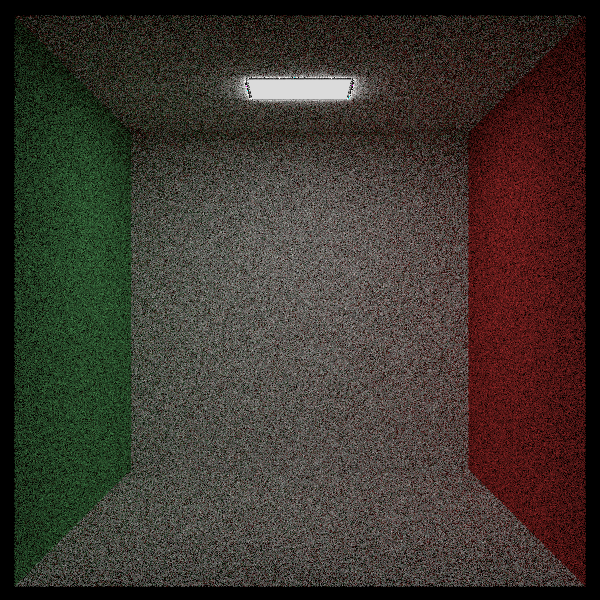
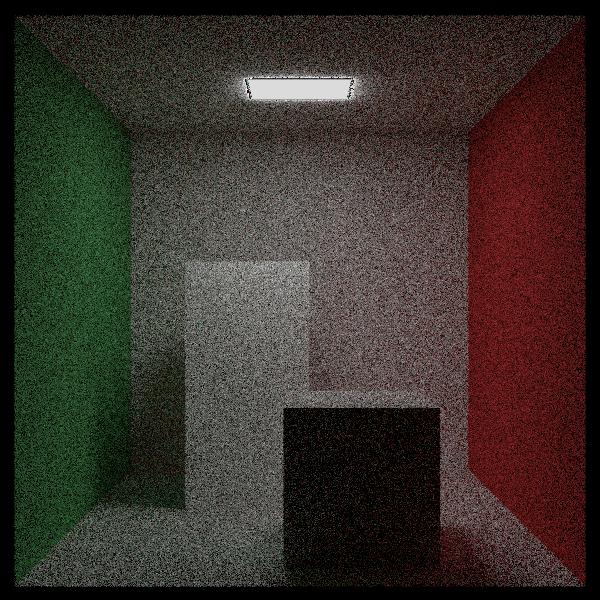
finish next week

diff --git a/RayTracingNextWeek/hittable.h b/RayTracingNextWeek/hittable.h
@@ -26,3 +26,123 @@ public:
     virtual bool hit(const ray& r, double t_min, double t_max, hit_record& rec) const = 0;
     virtual bool bounding_box(double time0, double time1, aabb& output_box) const = 0;
 };
+
+class translate : public hittable {
+public:
+    translate(shared_ptr<hittable> p, const vec3& displacement)
+        : ptr(p), offset(displacement) {}
+
+    virtual bool hit(
+        const ray& r, double t_min, double t_max, hit_record& rec) const override;
+
+    virtual bool bounding_box(double time0, double time1, aabb& output_box) const override;
+
+public:
+    shared_ptr<hittable> ptr;
+    vec3 offset;
+};
+
+bool translate::hit(const ray& r, double t_min, double t_max, hit_record& rec) const {
+    ray moved_r(r.origin() - offset, r.direction(), r.time());
+    if (!ptr->hit(moved_r, t_min, t_max, rec))
+        return false;
+
+    rec.p += offset;
+    rec.set_face_normal(moved_r, rec.normal);
+
+    return true;
+}
+
+bool translate::bounding_box(double time0, double time1, aabb& output_box) const {
+    if (!ptr->bounding_box(time0, time1, output_box))
+        return false;
+
+    output_box = aabb(
+        output_box.min() + offset,
+        output_box.max() + offset);
+
+    return true;
+}
+
+class rotate_y : public hittable {
+public:
+    rotate_y(shared_ptr<hittable> p, double angle);
+
+    virtual bool hit(
+        const ray& r, double t_min, double t_max, hit_record& rec) const override;
+
+    virtual bool bounding_box(double time0, double time1, aabb& output_box) const override {
+        output_box = bbox;
+        return hasbox;
+    }
+
+public:
+    shared_ptr<hittable> ptr;
+    double sin_theta;
+    double cos_theta;
+    bool hasbox;
+    aabb bbox;
+};
+
+rotate_y::rotate_y(shared_ptr<hittable> p, double angle) : ptr(p) {
+    auto radians = degrees_to_radians(angle);
+    sin_theta = sin(radians);
+    cos_theta = cos(radians);
+    hasbox = ptr->bounding_box(0, 1, bbox);
+
+    point3 min(infinity, infinity, infinity);
+    point3 max(-infinity, -infinity, -infinity);
+
+    for (int i = 0; i < 2; i++) {
+        for (int j = 0; j < 2; j++) {
+            for (int k = 0; k < 2; k++) {
+                auto x = i * bbox.max().x() + (1 - i) * bbox.min().x();
+                auto y = j * bbox.max().y() + (1 - j) * bbox.min().y();
+                auto z = k * bbox.max().z() + (1 - k) * bbox.min().z();
+
+                auto newx = cos_theta * x + sin_theta * z;
+                auto newz = -sin_theta * x + cos_theta * z;
+
+                vec3 tester(newx, y, newz);
+
+                for (int c = 0; c < 3; c++) {
+                    min[c] = fmin(min[c], tester[c]);
+                    max[c] = fmax(max[c], tester[c]);
+                }
+            }
+        }
+    }
+
+    bbox = aabb(min, max);
+}
+
+bool rotate_y::hit(const ray& r, double t_min, double t_max, hit_record& rec) const {
+    auto origin = r.origin();
+    auto direction = r.direction();
+
+    origin[0] = cos_theta * r.origin()[0] - sin_theta * r.origin()[2];
+    origin[2] = sin_theta * r.origin()[0] + cos_theta * r.origin()[2];
+
+    direction[0] = cos_theta * r.direction()[0] - sin_theta * r.direction()[2];
+    direction[2] = sin_theta * r.direction()[0] + cos_theta * r.direction()[2];
+
+    ray rotated_r(origin, direction, r.time());
+
+    if (!ptr->hit(rotated_r, t_min, t_max, rec))
+        return false;
+
+    auto p = rec.p;
+    auto normal = rec.normal;
+
+    p[0] = cos_theta * rec.p[0] + sin_theta * rec.p[2];
+    p[2] = -sin_theta * rec.p[0] + cos_theta * rec.p[2];
+
+    normal[0] = cos_theta * rec.normal[0] + sin_theta * rec.normal[2];
+    normal[2] = -sin_theta * rec.normal[0] + cos_theta * rec.normal[2];
+
+    rec.p = p;
+    rec.set_face_normal(rotated_r, normal);
+
+    return true;
+}
+

diff --git a/RayTracingNextWeek/constant_medium.h b/RayTracingNextWeek/constant_medium.h
@@ -1,0 +1,81 @@
+#pragma once
+
+#include "rtweekend.h"
+
+#include "hittable.h"
+#include "material.h"
+#include "texture.h"
+
+class constant_medium : public hittable {
+public:
+    constant_medium(shared_ptr<hittable> b, double d, shared_ptr<texture> a)
+        : boundary(b),
+        neg_inv_density(-1 / d),
+        phase_function(make_shared<isotropic>(a))
+    {}
+
+    constant_medium(shared_ptr<hittable> b, double d, color c)
+        : boundary(b),
+        neg_inv_density(-1 / d),
+        phase_function(make_shared<isotropic>(c))
+    {}
+
+    virtual bool hit(
+        const ray& r, double t_min, double t_max, hit_record& rec) const override;
+
+    virtual bool bounding_box(double time0, double time1, aabb& output_box) const override {
+        return boundary->bounding_box(time0, time1, output_box);
+    }
+
+public:
+    shared_ptr<hittable> boundary;
+    shared_ptr<material> phase_function;
+    double neg_inv_density;
+};
+
+bool constant_medium::hit(const ray& r, double t_min, double t_max, hit_record& rec) const {
+    // Print occasional samples when debugging. To enable, set enableDebug true.
+    const bool enableDebug = false;
+    const bool debugging = enableDebug && random_double() < 0.00001;
+
+    hit_record rec1, rec2;
+
+    if (!boundary->hit(r, -infinity, infinity, rec1))
+        return false;
+
+    if (!boundary->hit(r, rec1.t + 0.0001, infinity, rec2))
+        return false;
+
+    if (debugging) std::cerr << "\nt_min=" << rec1.t << ", t_max=" << rec2.t << '\n';
+
+    if (rec1.t < t_min) rec1.t = t_min;
+    if (rec2.t > t_max) rec2.t = t_max;
+
+    if (rec1.t >= rec2.t)
+        return false;
+
+    if (rec1.t < 0)
+        rec1.t = 0;
+
+    const auto ray_length = r.direction().length();
+    const auto distance_inside_boundary = (rec2.t - rec1.t) * ray_length;
+    const auto hit_distance = neg_inv_density * log(random_double());
+
+    if (hit_distance > distance_inside_boundary)
+        return false;
+
+    rec.t = rec1.t + hit_distance / ray_length;
+    rec.p = r.at(rec.t);
+
+    if (debugging) {
+        std::cerr << "hit_distance = " << hit_distance << '\n'
+            << "rec.t = " << rec.t << '\n'
+            << "rec.p = " << rec.p << '\n';
+    }
+
+    rec.normal = vec3(1, 0, 0);  // arbitrary
+    rec.front_face = true;     // also arbitrary
+    rec.mat_ptr = phase_function;
+
+    return true;
+}

diff --git a/RayTracingNextWeek/mainTest5.cpp b/RayTracingNextWeek/mainTest5.cpp
@@ -13,6 +13,8 @@
 #include "moving_sphere.h"
 #include "bvh.h"
 #include "aarect.h"
+#include "box.h"
+#include "constant_medium.h"
 
 #include <iostream>
 
@@ -145,6 +147,19 @@ hittable_list cornell_box() {
     objects.add(make_shared<xz_rect>(0, 555, 0, 555, 555, white));
     objects.add(make_shared<xy_rect>(0, 555, 0, 555, 555, white));
 
+    shared_ptr<hittable> box1 = make_shared<box>(point3(0, 0, 0), point3(165, 330, 165), white);
+    box1 = make_shared<rotate_y>(box1, 15);
+    box1 = make_shared<translate>(box1, vec3(265, 0, 295));
+    //objects.add(box1);
+
+    shared_ptr<hittable> box2 = make_shared<box>(point3(0, 0, 0), point3(165, 165, 165), white);
+    box2 = make_shared<rotate_y>(box2, -18);
+    box2 = make_shared<translate>(box2, vec3(130, 0, 65));
+    //objects.add(box2);
+
+    objects.add(make_shared<constant_medium>(box1, 0.01, color(0, 0, 0)));
+    objects.add(make_shared<constant_medium>(box2, 0.01, color(1, 1, 1)));
+
     return objects;
 }
 
@@ -153,7 +168,7 @@ int main() {
     auto aspect_ratio = 16.0 / 9.0;
     int image_width = 400;
     int image_height = static_cast<int>(image_width / aspect_ratio);
-    std::string outputPath = "./temp/mainTest4_box.png";
+    std::string outputPath = "./temp/mainTest5_box_fog.png";
     int samples_per_pixel = 400;
     int max_depth = 50;
     // World

diff --git a/RayTracingNextWeek/box.h b/RayTracingNextWeek/box.h
@@ -1,0 +1,42 @@
+#pragma once
+
+#include "rtweekend.h"
+
+#include "aarect.h"
+#include "hittable_list.h"
+
+class box : public hittable {
+public:
+    box() {}
+    box(const point3& p0, const point3& p1, shared_ptr<material> ptr);
+
+    virtual bool hit(const ray& r, double t_min, double t_max, hit_record& rec) const override;
+
+    virtual bool bounding_box(double time0, double time1, aabb& output_box) const override {
+        output_box = aabb(box_min, box_max);
+        return true;
+    }
+
+public:
+    point3 box_min;
+    point3 box_max;
+    hittable_list sides;
+};
+
+box::box(const point3& p0, const point3& p1, shared_ptr<material> ptr) {
+    box_min = p0;
+    box_max = p1;
+
+    sides.add(make_shared<xy_rect>(p0.x(), p1.x(), p0.y(), p1.y(), p1.z(), ptr));
+    sides.add(make_shared<xy_rect>(p0.x(), p1.x(), p0.y(), p1.y(), p0.z(), ptr));
+
+    sides.add(make_shared<xz_rect>(p0.x(), p1.x(), p0.z(), p1.z(), p1.y(), ptr));
+    sides.add(make_shared<xz_rect>(p0.x(), p1.x(), p0.z(), p1.z(), p0.y(), ptr));
+
+    sides.add(make_shared<yz_rect>(p0.y(), p1.y(), p0.z(), p1.z(), p1.x(), ptr));
+    sides.add(make_shared<yz_rect>(p0.y(), p1.y(), p0.z(), p1.z(), p0.x(), ptr));
+}
+
+bool box::hit(const ray& r, double t_min, double t_max, hit_record& rec) const {
+    return sides.hit(r, t_min, t_max, rec);
+}

diff --git a/RayTracingNextWeek/material.h b/RayTracingNextWeek/material.h
@@ -106,3 +106,20 @@ public:
 public:
     shared_ptr<texture> emit;
 };
+
+class isotropic : public material {
+public:
+    isotropic(color c) : albedo(make_shared<solid_color>(c)) {}
+    isotropic(shared_ptr<texture> a) : albedo(a) {}
+
+    virtual bool scatter(
+        const ray& r_in, const hit_record& rec, color& attenuation, ray& scattered
+    ) const override {
+        scattered = ray(rec.p, random_in_unit_sphere(), r_in.time());
+        attenuation = albedo->value(rec.u, rec.v, rec.p);
+        return true;
+    }
+
+public:
+    shared_ptr<texture> albedo;
+};
